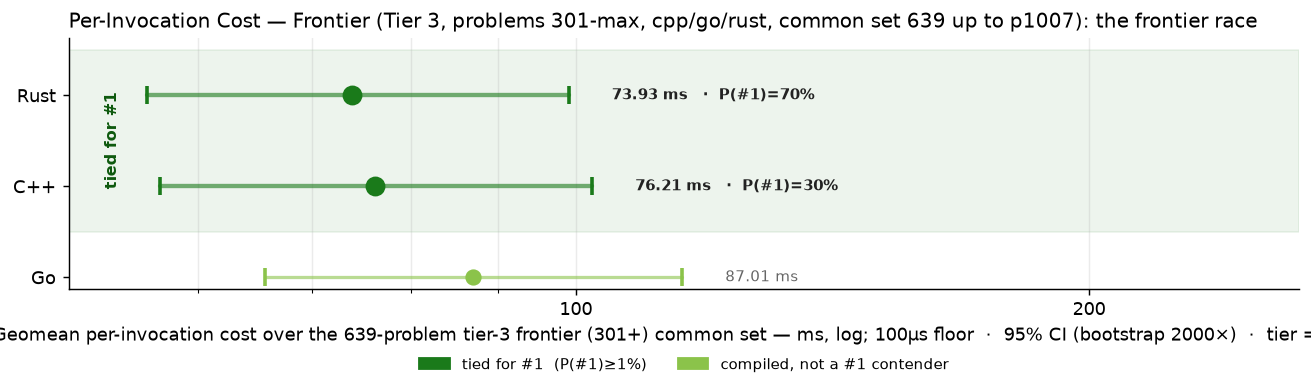
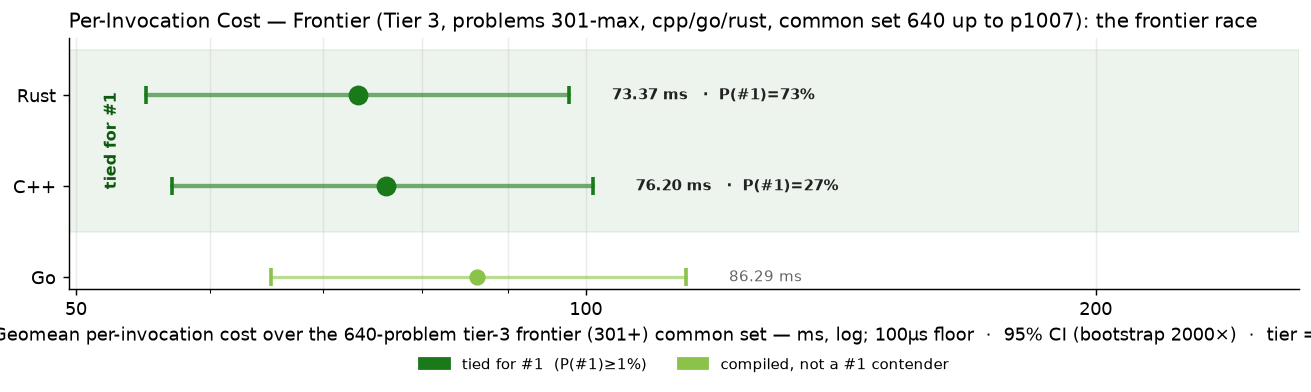
cpp p0765

diff --git a/RESULTS.md b/RESULTS.md
@@ -1,6 +1,6 @@
 # Project Euler — Cross-Language Benchmarks
 
-> **Scope: 4521 in-scope cells across 1007 problems × tiered languages — 4385 measured (97.0% coverage).**
+> **Scope: 4521 in-scope cells across 1007 problems × tiered languages — 4386 measured (97.0% coverage).**
 > The cross-language ranking below is computed over the **200-problem common set** (problems in 1-200 where every language has a passing measurement) — the apples-to-apples Foundation comparison surface.  Per-tier rankings and coverage detail appear further below.
 > Growing carefully — each new problem and language is audited for state-leak
 > safety, verified for answer correctness, and added only when it cleanly fits the
@@ -70,15 +70,15 @@ Same scatter as the Foundation chart, restricted to the tier-2 active languages 
 
 The frontier verification trio — C++, Go, Rust — on problems above 300. 3-way cross-language agreement is the verification protocol (strictly stronger than 2-way; see JOURNEY.md "Tier Reframing" episode for the p254 lesson that motivated it). Python and Zig are explicitly out of this tier — python's wall cost makes it impractical at level 5+, and zig's role caps at Tier 2.
 
-### Per-Invocation Cost (Common Set, 639 of ≤707 problems in scope)
+### Per-Invocation Cost (Common Set, 640 of ≤707 problems in scope)
 
 ![Per-Invocation Cost — Tier 3](charts/per_iter_total_tier3.png)
 
-| Rank | Language | Geomean (639-problem common set) | Total (sum) | Lines of code | vs Fastest |
+| Rank | Language | Geomean (640-problem common set) | Total (sum) | Lines of code | vs Fastest |
 |------|----------|--------------------:|------------:|--------------:|-----------:|
-| 1 | **Rust** | 73.93 ms | 1726.39 s | 126,951 | 1.00× |
-| 2 | **C++** | 76.21 ms | 1867.95 s | 92,638 | 1.03× |
-| 3 | **Go** | 87.01 ms | 2113.28 s | 117,612 | 1.18× |
+| 1 | **Rust** | 73.37 ms | 1726.39 s | 127,296 | 1.00× |
+| 2 | **C++** | 76.20 ms | 1868.03 s | 92,811 | 1.04× |
+| 3 | **Go** | 86.29 ms | 2113.28 s | 117,782 | 1.18× |
 
 ### Speed vs Code Size
 
@@ -264,7 +264,7 @@ table never silently mixes versions (METHODOLOGY.md §4).  Current state of the
 |----------|-----------|------:|---------------|
 | **ARM64** | `Apple clang version 21.0.0 (clang-2100.1.1.101)` | 200 | 2026-07-30 |
 | **C** | `Apple clang version 21.0.0 (clang-2100.1.1.101)` | 200 | 2026-07-30 |
-| **C++** | `Apple clang version 21.0.0 (clang-2100.1.1.101)` | 941 | 2026-09-05 |
+| **C++** | `Apple clang version 21.0.0 (clang-2100.1.1.101)` | 942 | 2026-09-05 |
 | **C#** | `10.0.101` | 200 | 2026-07-30 |
 | **Go** | `go version go1.26.5 darwin/arm64` | 942 | 2026-09-05 |
 | **Java** | `openjdk version "21.0.2" 2024-01-16 LTS` | 200 | 2026-07-30 |

diff --git a/per_problem/per_problem_0701-0800.md b/per_problem/per_problem_0701-0800.md
@@ -72,7 +72,7 @@ in tier-1 display order (native → managed → interpreted).
 | **p0762** | 23.82 ms | 26.66 ms | 145.06 ms |
 | **p0763** | — | 234.19 ms | — |
 | **p0764** | 1.86 s | 2.67 s | 2.68 s |
-| **p0765** | — | 576.8 µs | 423.4 µs |
+| **p0765** | 72.61 ms | 576.8 µs | 423.4 µs |
 | **p0766** | 12.77 s | 939.20 ms | — |
 | **p0767** | 77.70 ms | 1.41 s | 78.20 ms |
 | **p0768** | — | 64.4 µs | — |
